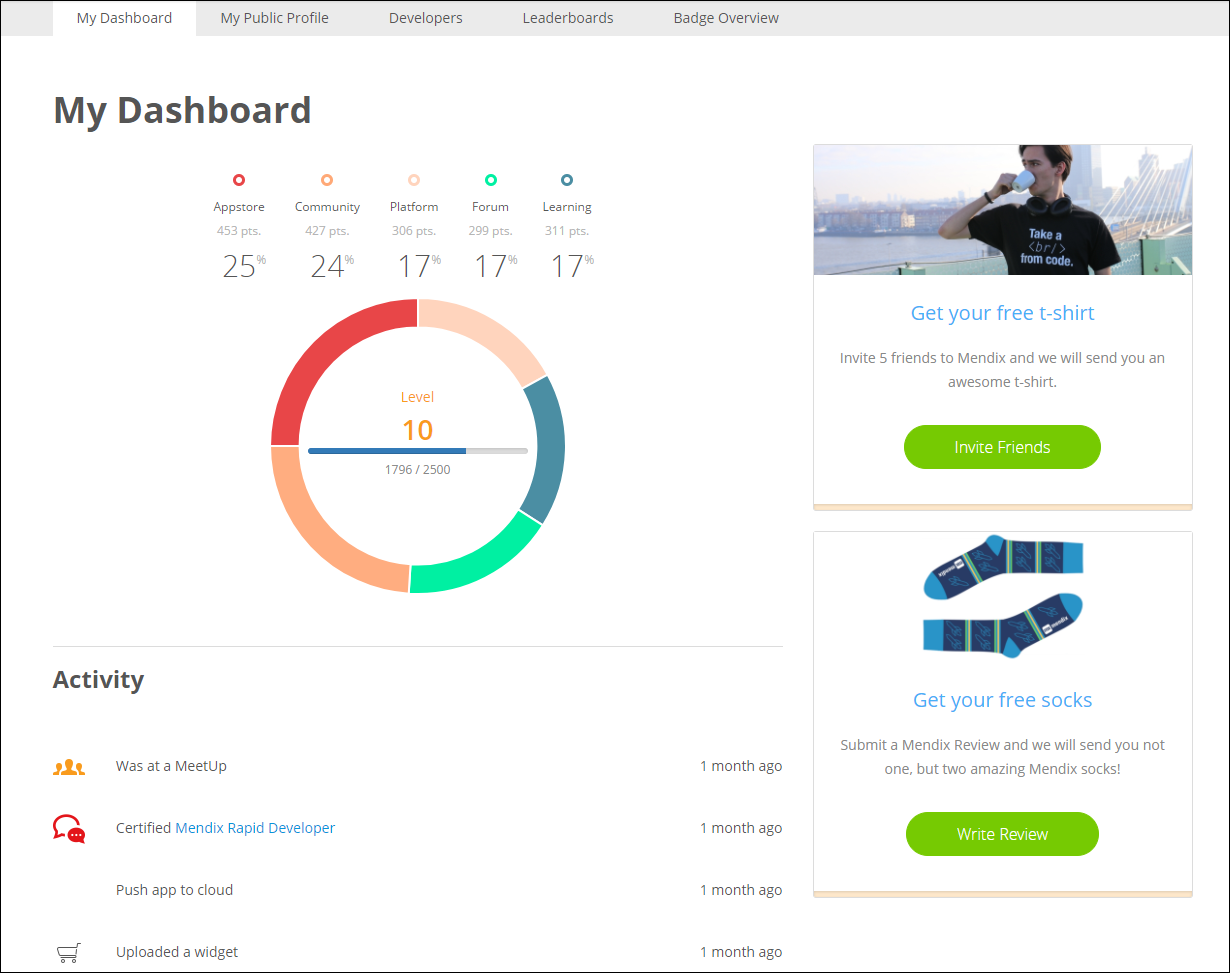
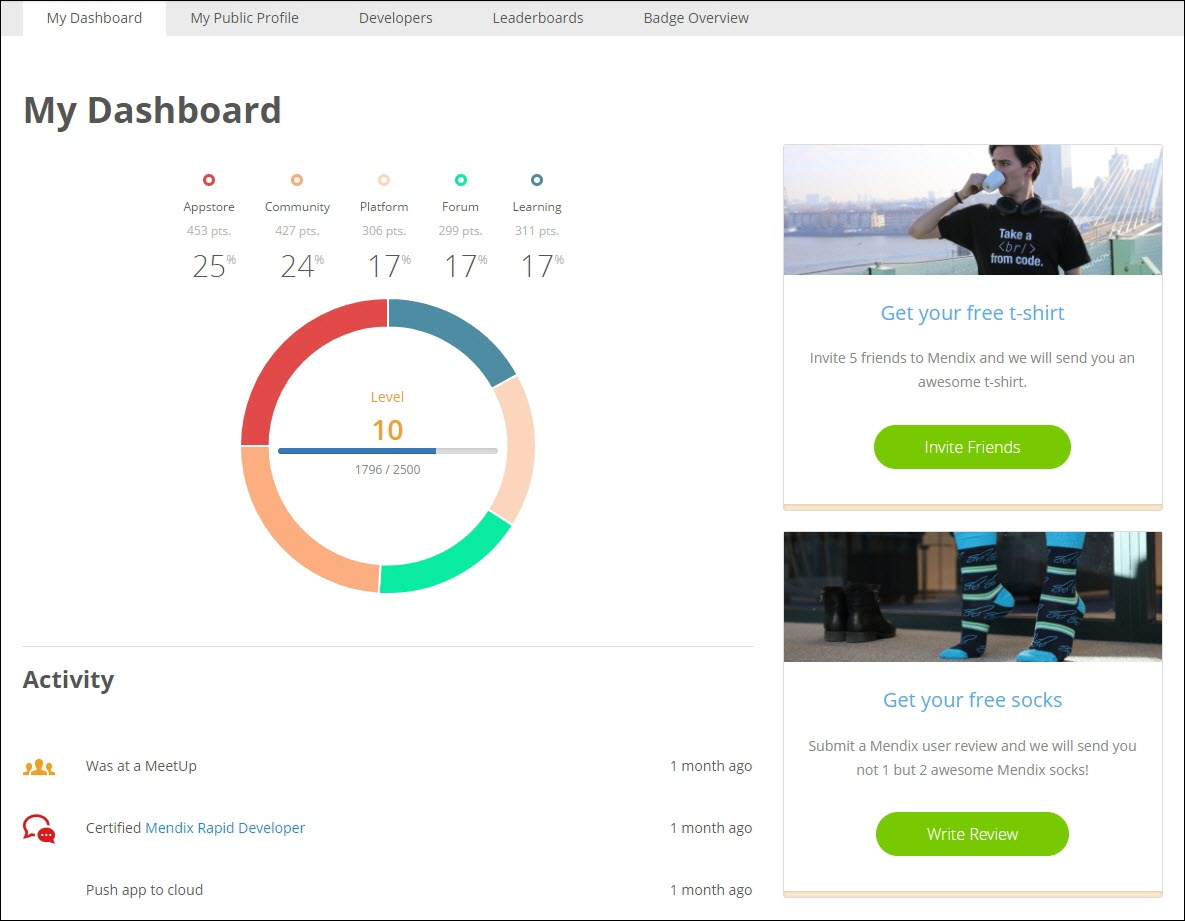
Finish reviews section

diff --git a/content/community/tools/how-to-set-up-your-profile.md b/content/community/tools/how-to-set-up-your-profile.md
@@ -27,8 +27,6 @@ Your profile will open to the **My Dashboard** tab, where you can see your point
 
 You can also see your Mendix **Activity**, which is a list of the most important public events for which you have gained Mendix points.
 
-[**UPDATE SCREENSHOT OF REVIEWS CARD: NEW SOCKS PHOTO, NEW TEXT: "Submit a Mendix user review and we will send you not 1 but 2 awesome Mendix socks!"**]
-
 ![](attachments/how-to-set-up-your-profile/my-dashboard.png)
 
 ### <a name="invite"></a>3.1 Inviting Friends and Colleagues to Mendix
@@ -47,8 +45,6 @@ After you have invited someone to Mendix, click **Invite Friends / View Status**
 
 Once five of your referrals reach the **Successful** status, you will see the **Claim your t-shirt** link on your dashboard. Click this to fill in some details and receive your awesome Mendix t-shirt. Yay!
 
-[**UPDATE SCREENSHOT OF REFERRALS CARD: NEW TEXT: "Invite more friends to Mendix and gain more Mendix points and badges!"**]
-
 ![](attachments/how-to-set-up-your-profile/claim-tshirt.png)
 
 ### <a name="review"></a>3.2 Writing User Reviews of Mendix
@@ -60,24 +56,22 @@ There is no opportunity for Mendix partners to leave reviews on Gartner Peer Ins
 {{% /alert %}}
 
 To write a user review and earn a fashionable pair of Mendix socks, follow these steps:
-1. Click **Write Review** under **Get your free socks**.
-2.  On the pop-up window, click the desired link to one of the software review websites next to **Write your review here**.
+1. Click **Write Review** under **Get your free socks** on your dashboard.
+2.  On the pop-up window, click the link to the software review website next to **Write your review here**:
 
     ![](attachments/how-to-set-up-your-profile/review-popup.png)
 
-3. Write and save your review on the website.
+3. Write and save your user review on the website.
 4. Copy the URL to your review, paste it in the field on the pop-up window, and click **Submit Review**. Please note that you cannot submit a link to a review that has already been written and submitted.
 
-The submitted review is then verified by Mendix. You can check the status of your review by clicking **Write Review** and looking at bottom of the pop-up window:
+The submitted review is then verified by Mendix. You can check the status of your review by clicking **Write Review** and looking at the bottom of the pop-up window:
     
 * **Pending** – Mendix is still verifying the review
-*  **Successful** – the review has been verified and is published, so you can claim your socks!
+*  **Successful** – the review has been verified and is published, so you can claim your swag!
 
     ![](attachments/how-to-set-up-your-profile/review-popup-status.png)
 
 Once your review has been verified as successful, you will see the **Claim your socks** link on your dashboard. Click this to fill in some details and receive your nice warm pair of Mendix socks!
-
-[**UPDATE SCREENSHOT OF REVIEWS CARD: NEW SOCKS PHOTO, NEW TEXT: "Submit another Mendix user review and gain some Mendix points!"**]
 
 ![](attachments/how-to-set-up-your-profile/review-socks.png)
 
@@ -86,7 +80,7 @@ If your review has been declined, you can write a new one and submit it.
 {{% /alert %}}
 
 {{% alert type="info" %}}
-You can only earn a pair of socks for your first Mendix user review, but subsequent reviews will still earn you Mendix points!
+You can only earn a pair of socks for your first Mendix user review. Subsequent reviews will still earn you Mendix points.
 {{% /alert %}}
 
 ## <a name="publicprofile"></a>4 Editing Your Public Profile
